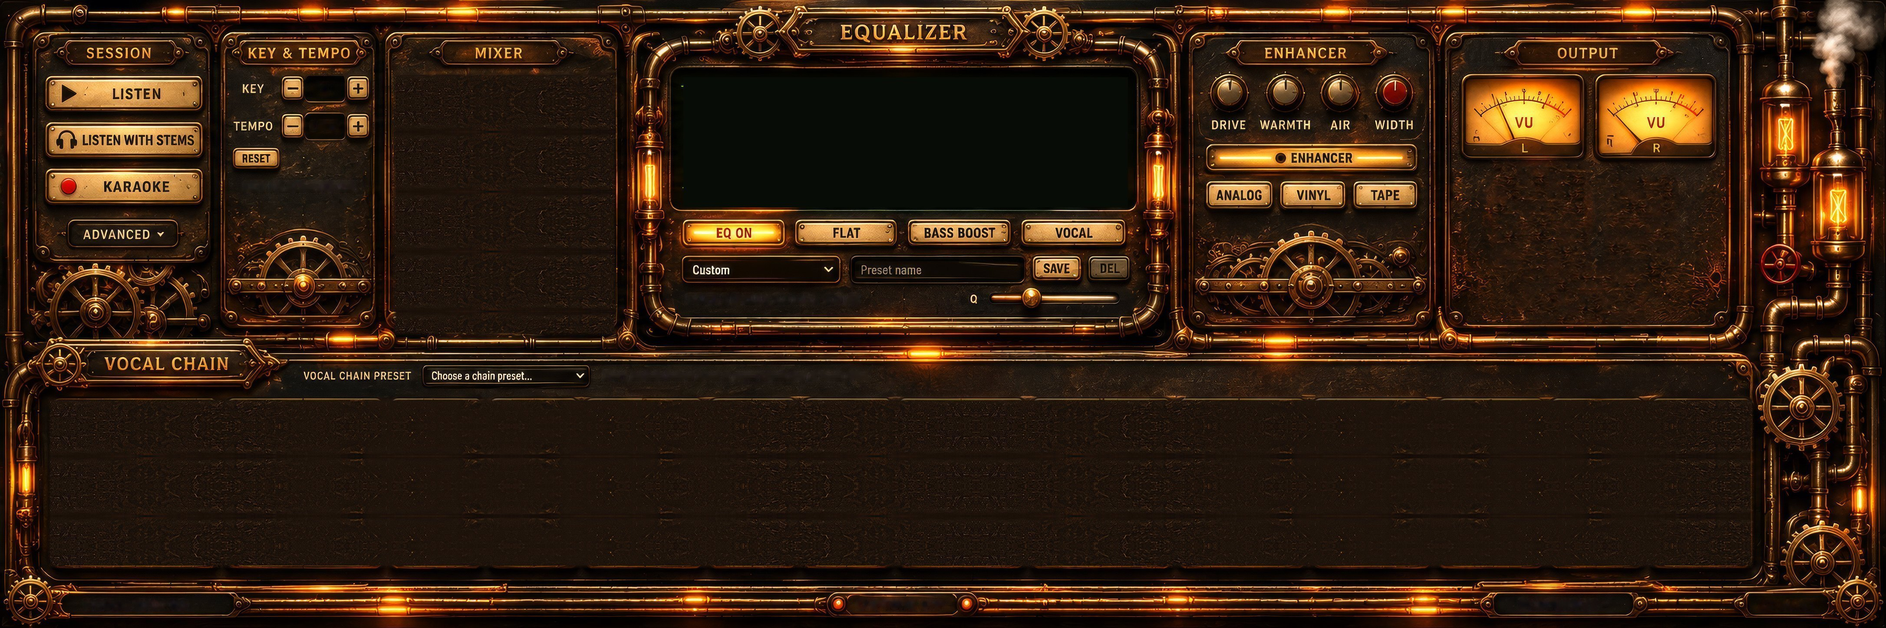
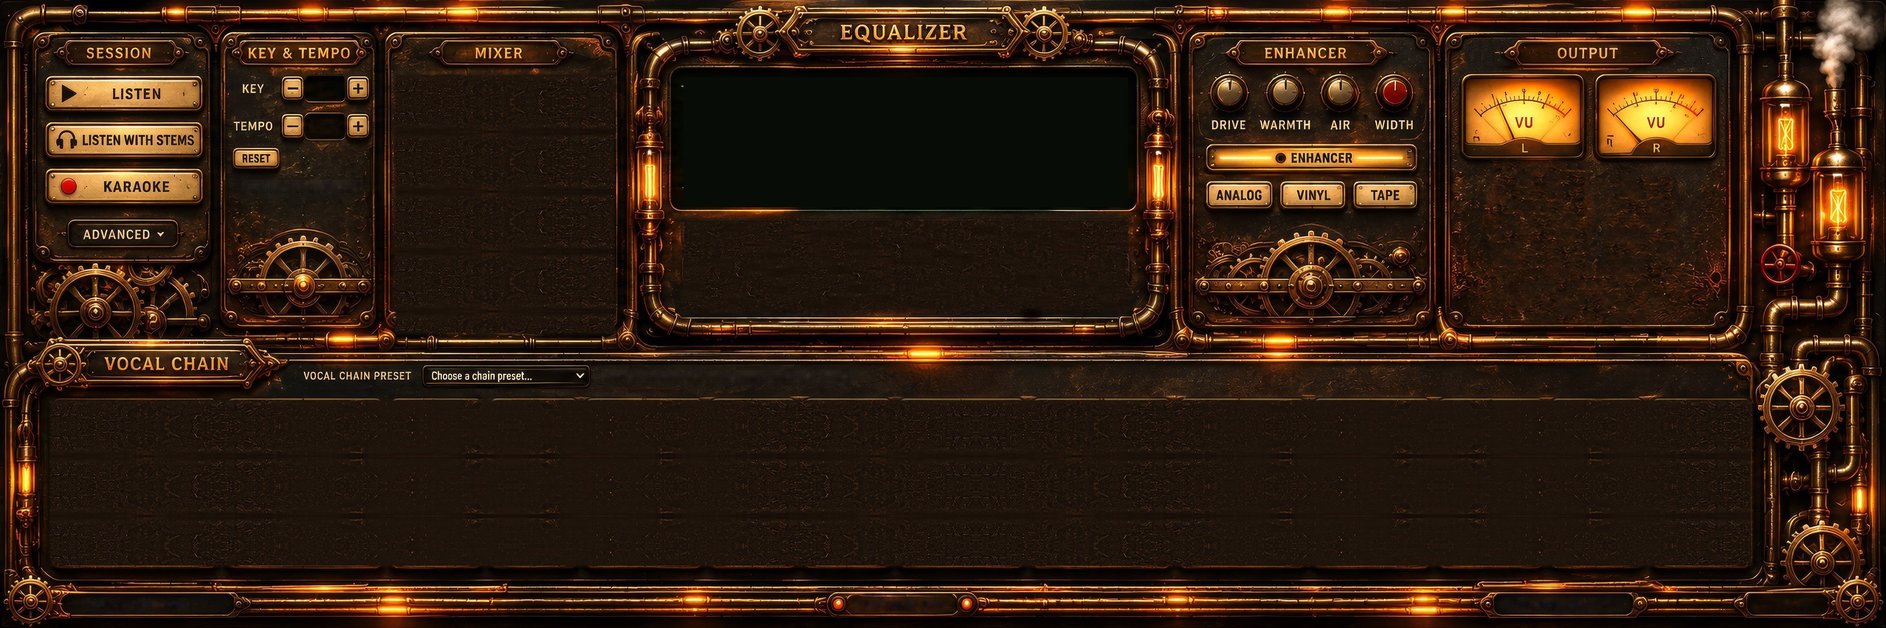
feat: Studio EQ parametrik/grafik modu, THRESH limiter'a bagli, Enhancer carklari donuyor
- EQ: FLAT/BASS/VOCAL yerine PARAMETRIC / GRAPHIC EQ (ikisi ayni anda secilemez); grafik mod cekmecede 10 fader, ustteki grafik EQ ile ayni durumu paylasir; EQ off iken dugme, faderlar ve yan tupler sonuk
- EQ preset secici ve isim kutusu duz alan; zemindeki eski EQ plakalari silindi (studio_eqplate.py)
- Output: THRESH yeni konumda, LIMITER pasifken soluk
- Enhancer: 3 cark (buyuk halka zeminden kesildi, 2 yan cark sk-gear.png'den) Enhancer acikken doner (studio_gears.py)

Changed region(s): [[0.3419, 0.3419, 0.6215, 0.4972]]

diff --git a/src/preload.js b/src/preload.js
@@ -537,9 +537,9 @@ if (isAutotunePage()) {
     const fmtFreq = (f) => (f >= 1000 ? (f / 1000).toFixed(f >= 10000 ? 0 : 1) + ' kHz' : Math.round(f) + ' Hz');
 
     const eqOn = h('button', 'btn solo', 'EQ ON', { type: 'button', 'aria-label': 'Equalizer enabled' });
-    const quick = [['FLAT', 'Flat'], ['BASS BOOST', 'Bass boost'], ['VOCAL', 'Vocal boost']].map(([text, preset]) => h('button', 'btn', text, { type: 'button', 'data-preset': preset }));
+    const modeBtns = [['PARAMETRIC', 'param'], ['GRAPHIC EQ', 'graphic']].map(([text, mode]) => h('button', 'btn', text, { type: 'button', 'data-mode': mode }));
     const row1 = h('div', 'switches fill');
-    row1.append(eqOn, ...quick);
+    row1.append(eqOn, ...modeBtns);
     const presetSelect = h('select', 'sel', null, { 'aria-label': 'Equalizer preset' });
     const nameInput = h('input', 'txt', null, { type: 'text', maxlength: '40', placeholder: 'Preset name', 'aria-label': 'Name for saving the current equalizer as a preset' });
     for (const type of ['keydown', 'keyup', 'keypress']) nameInput.addEventListener(type, (e) => e.stopPropagation()); // typing a name must not trigger YouTube Music hotkeys
@@ -551,12 +551,22 @@ if (isAutotunePage()) {
     const qSlider = h('input', 'qrange', null, { type: 'range', min: '0.1', max: '10', step: '0.05', 'aria-label': 'Selected band Q' });
     const info = h('div', 'eqinfo-row');
     info.append(infoText, h('span', null, 'Q'), qSlider);
-    sec.append(canvas, row1, row2, info);
+    const geqHost = h('div', 'eq-geq'), geqPreHost = h('div', 'eq-geqpre');
+    studio.eqGeqHost = geqHost; studio.eqGeqPreHost = geqPreHost;
+    studio.geqMount?.();
+    sec.append(canvas, geqHost, row1, row2, geqPreHost, info, h('i', 'eq-tube l'), h('i', 'eq-tube r'));
     ctrlReset(qSlider, () => EQ_DEFAULT_BANDS[selected].q);
 
     let selected = 2, dragging = -1, spectrum = null;
     const userPresets = loadUserPresets();
-    const syncOn = () => { eqOn.classList.toggle('on', eqState.enabled); eqOn.setAttribute('aria-pressed', String(eqState.enabled)); };
+    const isGeq = () => eqState.mode === 'graphic';
+    const syncOn = () => {
+      const on = isGeq() ? geqState.on : eqState.enabled;
+      eqOn.classList.toggle('on', on); eqOn.setAttribute('aria-pressed', String(on));
+      sec.classList.toggle('mode-graphic', isGeq()); sec.classList.toggle('eq-off', !on);
+      for (const b of modeBtns) { const a = on && b.getAttribute('data-mode') === eqState.mode; b.classList.toggle('on', a); b.setAttribute('aria-pressed', String(a)); }
+    };
+    studio.eqModeSync = syncOn;
     const updateInfo = () => {
       const b = eqState.bands[selected];
       infoText.textContent = `BAND ${selected + 1} (${b.type === 'peaking' ? 'BELL' : b.type === 'lowshelf' ? 'LOW SHELF' : 'HIGH SHELF'}): ${fmtFreq(b.freq)}, ${b.gain > 0 ? '+' : ''}${b.gain.toFixed(1)} dB`;
@@ -584,9 +594,13 @@ if (isAutotunePage()) {
       commit(); refreshPresetList(v);
     };
     refreshPresetList(''); syncOn(); updateInfo();
-    for (const b of quick) b.addEventListener('click', () => applyPreset('b:' + b.getAttribute('data-preset')));
+    for (const b of modeBtns) b.addEventListener('click', () => {
+      eqState.mode = b.getAttribute('data-mode');
+      if (isGeq()) geqState.on = true; else eqState.enabled = true; // choosing a mode switches it on
+      syncOn(); applyEq(); applyGeq(); saveEqState(); saveGeq(); ensurePassiveGraph(); studio.geqSync?.();
+    });
     presetSelect.addEventListener('change', () => applyPreset(presetSelect.value));
-    eqOn.addEventListener('click', () => { eqState.enabled = !eqState.enabled; syncOn(); applyEq(); saveEqState(); });
+    eqOn.addEventListener('click', () => { if (isGeq()) { geqState.on = !geqState.on; saveGeq(); } else { eqState.enabled = !eqState.enabled; saveEqState(); } syncOn(); applyEq(); applyGeq(); studio.geqSync?.(); ensurePassiveGraph(); });
     saveBtn.addEventListener('click', () => {
       const name = nameInput.value.trim().slice(0, 40);
       if (!name || name in EQ_BUILTIN_PRESETS) { nameInput.focus(); return; } // built-in names are reserved
@@ -700,7 +714,7 @@ if (isAutotunePage()) {
     const led = h('span', 'led');
     lim.append(led, document.createTextNode('LIMITER'));
     lim.title = 'Peak limiter after the EQ and master gain. Off = no processing.';
-    const syncLim = () => { lim.classList.toggle('on', eqState.limiter); led.classList.toggle('on', eqState.limiter); lim.setAttribute('aria-pressed', String(eqState.limiter)); };
+    const syncLim = () => { lim.classList.toggle('on', eqState.limiter); led.classList.toggle('on', eqState.limiter); lim.setAttribute('aria-pressed', String(eqState.limiter)); knobs.classList.toggle('lim-off', !eqState.limiter); };
     lim.addEventListener('click', () => { eqState.limiter = !eqState.limiter; routeLimiter(); saveEqState(); syncLim(); });
     syncLim();
     const sw = h('div', 'switches'); sw.appendChild(lim);
@@ -962,6 +976,9 @@ if (isAutotunePage()) {
     }
     syncPresets();
     sec.append(row, sw);
+    const gearSync = () => sec.classList.toggle('enh-on', onBtn.classList.contains('on'));
+    new MutationObserver(gearSync).observe(onBtn, { attributes: true, attributeFilter: ['class'] }); gearSync();
+    for (const n of ['big', 'r', 'l']) sec.appendChild(h('div', 'enh-gear ' + n, null)).appendChild(h('i'));
   }
 
   // ---- Recorder (master output -> MP3 in the recordings library) and the library player ----
@@ -1821,11 +1838,12 @@ if (isAutotunePage()) {
     const set = (i, v) => { geqState.gains[i] = Math.max(-12, Math.min(12, Math.round(v))); geqState.preset = ''; changed(); };
     const buildBands = (parent, capH, cls) => {
       const v = { caps: [], fills: [], trks: [], capH };
+      if (capH) parent.style.setProperty('--caph', capH + 'px');
       GEQ_FREQS.forEach((fq, i) => {
         const col = h('div', 'geqcol ' + cls), tr = h('div', 'geqtrk'), fl = h('i', 'geqfill'), cp = h('i', 'geqcap');
         tr.append(fl, cp); col.append(h('span', 'geqlbl', LBL[i]), tr); parent.appendChild(col);
         v.caps.push(cp); v.fills.push(fl); v.trks.push(tr);
-        const fromY = (y) => { const r = tr.getBoundingClientRect(); set(i, (1 - (y - r.top - capH / 2) / Math.max(1, r.height - capH)) * 24 - 12); };
+        const fromY = (y) => { const r = tr.getBoundingClientRect(), ch = cp.getBoundingClientRect().height || capH; set(i, (1 - (y - r.top - ch / 2) / Math.max(1, r.height - ch)) * 24 - 12); };
         tr.addEventListener('pointerdown', (e) => {
           e.preventDefault(); try { tr.setPointerCapture(e.pointerId); } catch {}
           fromY(e.clientY);
@@ -1868,23 +1886,29 @@ if (isAutotunePage()) {
     reset.addEventListener('click', () => { geqState.gains = GEQ_PRESETS.Flat.slice(); geqState.preset = 'Flat'; changed(); });
     const foot = h('div', 'geqfoot'); foot.append(buildPower('big'), buildPreset(), reset);
     pan.append(h('i', 'geqtitle'), h('i', 'geqlamp l'), h('i', 'geqlamp r'), scr, foot, h('div', 'geqlock', 'STUDIO EQ ACTIVE'));
+    let mounted = false;
+    studio.geqMount = () => { if (mounted || !studio.eqGeqHost) return; mounted = true; const H = studio.eqGeqHost; for (const side of ['l', 'r']) { const sc = h('div', 'geqscale ' + side); for (const t of ['+12', '+6', '0', '−6', '−12']) sc.appendChild(h('span', null, t)); H.appendChild(sc); }
+      const bb = h('div', 'geqbands big'); H.append(h('div', 'geqgrid'), bb, h('span', 'geqhz', 'Hz')); buildBands(bb, 0, 'md'); studio.eqGeqPreHost.append(buildPreset()); draw(); };
     ui.append(box, pan);
     const setOpen = (o) => { pan.classList.toggle('open', o); tab.textContent = o ? 'EQ \u25B2' : 'EQ \u25BC'; tab.setAttribute('aria-label', o ? 'Close the graphic equalizer panel' : 'Open the graphic equalizer panel'); };
     tab.addEventListener('click', () => setOpen(!pan.classList.contains('open')));
+    studio.geqOpen = setOpen;
     // the panel stays open until the EQ button is pressed again (no outside-click / Esc close)
     const draw = () => {
-      for (const el of [box, pan]) { el.classList.toggle('off', !geqState.on); el.classList.toggle('locked', studioActive()); }
+      for (const el of [box, pan]) { el.classList.toggle('off', !geqState.on); el.classList.toggle('locked', paramLive()); }
+      studio.eqModeSync?.();
       for (const pw of pwEls) pw.setAttribute('aria-pressed', String(geqState.on));
       for (const pn of nameEls) pn.textContent = geqState.preset || 'Custom';
       for (const v of views) geqState.gains.forEach((g, i) => {
         const p = (g + 12) / 24;
-        v.caps[i].style.bottom = 'calc(' + p + ' * (100% - ' + v.capH + 'px))';
-        v.fills[i].style.height = 'calc(' + p + ' * (100% - ' + v.capH + 'px) + ' + v.capH / 2 + 'px)';
+        v.caps[i].style.bottom = 'calc(' + p + ' * (100% - var(--caph)))';
+        v.fills[i].style.height = 'calc(' + p + ' * (100% - var(--caph)) + var(--caph) / 2)';
         v.trks[i].title = LBL[i] + ' Hz: ' + (g > 0 ? '+' : '') + g + ' dB';
       });
     };
     changed = () => { applyGeq(); saveGeq(); draw(); ensurePassiveGraph(); };
     studio.geqSync = draw;
+    studio.geqMount();
     const place = () => {
       const sb = document.querySelector('ytmusic-search-box');
       const vu = box.parentNode && box.parentNode.querySelector('.topvu');
@@ -2639,9 +2663,9 @@ if (isAutotunePage()) {
     .skin .section.eq .switches { position:absolute; inset:0; margin:0; display:block; }
     .skin .section.eq .btn { display:flex; align-items:center; justify-content:center; border:calc(30 / 4344 * 100cqw) solid transparent; border-image:${T('sk-st-cream.png')} 30 fill / calc(30 / 4344 * 100cqw) stretch; background:none; color:#422c16; font:600 .9cqw 'Barlow Condensed',sans-serif; }
     .skin .section.eq .btn.on { border-image:${T('sk-st-amber.png')} 28 fill / calc(28 / 4344 * 100cqw) stretch; }
-    .skin .eqrow .sel, .skin .eqrow .txt { border:calc(20 / 4344 * 100cqw) solid transparent; border-image:${T('sk-st-select.png')} 20 62 fill / calc(20 / 4344 * 100cqw) calc(38 / 4344 * 100cqw) stretch; border-radius:0; background:none; color:#ead9b2; font:600 .7cqw 'Barlow Condensed',sans-serif; padding:0 1.2cqw; }
+    .skin .eqrow .sel, .skin .eqrow .txt { border:calc(20 / 4344 * 100cqw) solid transparent; border-image:${T('sk-st-select.png')} 20 62 fill / calc(20 / 4344 * 100cqw) calc(62 / 4344 * 100cqw) stretch; border-radius:0; background:none; color:#ead9b2; font:600 .7cqw 'Barlow Condensed',sans-serif; padding:0 .5cqw; }
     .skin .eqrow .txt { border-image:${T('sk-st-input.png')} 18 fill / calc(18 / 4344 * 100cqw) stretch; }
-    .skin .sel { border:calc(20 / 4344 * 100cqw) solid transparent; border-image:${T('sk-st-select.png')} 20 62 fill / calc(20 / 4344 * 100cqw) calc(38 / 4344 * 100cqw) stretch; border-radius:0; background:none; color:#ead9b2; font:600 .7cqw 'Barlow Condensed',sans-serif; }
+    .skin .sel { border:calc(20 / 4344 * 100cqw) solid transparent; border-image:${T('sk-st-select.png')} 20 62 fill / calc(20 / 4344 * 100cqw) calc(62 / 4344 * 100cqw) stretch; border-radius:0; background:none; color:#ead9b2; font:600 .7cqw 'Barlow Condensed',sans-serif; }
     .skin .sel.st-select-wrap { position:relative; display:flex; align-items:center; overflow:hidden; padding:0 calc(62 / 4344 * 100cqw) 0 calc(20 / 4344 * 100cqw); appearance:none; -webkit-appearance:none; white-space:nowrap; line-height:1; border:0 !important; border-image:none !important; background:none; }
     .skin .st-select-wrap::before { content:''; position:absolute; inset:0; z-index:0; pointer-events:none; border:calc(20 / 4344 * 100cqw) solid transparent; border-image:${T('sk-st-select.png')} 20 62 fill / calc(20 / 4344 * 100cqw) calc(62 / 4344 * 100cqw) stretch; }
     .skin .st-select-label { position:absolute; z-index:3; left:calc(20 / 4344 * 100cqw); right:calc(62 / 4344 * 100cqw); top:0; height:100%; display:flex; align-items:center; overflow:hidden; white-space:nowrap; text-overflow:clip; color:#ead9b2; font:inherit; line-height:1; background:#15100b; pointer-events:none; }
@@ -2690,7 +2714,36 @@ if (isAutotunePage()) {
     .skin .section.output .knob.big::after { background-image:${T('sk-st-kout-master-cap.png')} !important; }
     .skin .section.output .knob.dark::before { background-image:${T('sk-st-kout-thresh-base.png')} !important; }
     .skin .section.output .knob.dark::after { background-image:${T('sk-st-kout-thresh-cap.png')} !important; }
+    .eq-geq, .eq-geqpre { display:none; }
+    .skin .section.eq.mode-graphic .eq-screen, .skin .section.eq.mode-graphic .eqrow, .skin .section.eq.mode-graphic .eqinfo-row { display:none !important; }
+    .skin .section.eq.mode-graphic .eq-geq { display:block; position:absolute; box-sizing:border-box; --u:calc(100cqw / 4344); --caph:calc(52 * var(--u)); border-radius:calc(14 * var(--u)); background:linear-gradient(#ffffff06,#00000040), #0c0805; box-shadow:inset 0 0 14px #000, 0 0 0 1px #6a4a26; }
+    .skin .section.eq.mode-graphic .eq-geqpre { display:flex; position:absolute; align-items:center; justify-content:center; }
+    /* Enhancer wheels: rotating sprites cut from the backdrop (design/tools/studio_gears.py); spin only while the Enhancer is on */
+    .enh-gear { position:absolute; pointer-events:none; -webkit-mask:center / 100% 100% no-repeat; }
+    .enh-gear i { position:absolute; inset:0; background:center / 100% 100% no-repeat; animation:enh-spin 16s linear infinite; animation-play-state:paused; }
+    .section.enh.enh-on .enh-gear i { animation-play-state:running; }
+    .enh-gear.big { -webkit-mask-image:${T('sk-st-gear-big-mask.png')}; } .enh-gear.big i { background-image:${T('sk-st-gear-big.png')}; }
+    .enh-gear.r { -webkit-mask-image:${T('sk-st-gear-r-mask.png')}; } .enh-gear.r i { background-image:${T('sk-st-gear-r.png')}; animation-duration:9s; animation-direction:reverse; }
+    .enh-gear.l { -webkit-mask-image:${T('sk-st-gear-l-mask.png')}; } .enh-gear.l i { background-image:${T('sk-st-gear-l.png')}; animation-duration:11s; animation-direction:reverse; }
+    @keyframes enh-spin { to { transform:rotate(360deg); } }
+    .eq-tube { position:absolute; pointer-events:none; border-radius:30%; z-index:3; transition:backdrop-filter .3s, background .3s; }
+    .section.eq.eq-off .eq-tube { backdrop-filter:brightness(.28) saturate(.25); -webkit-backdrop-filter:brightness(.28) saturate(.25); background:#0a060255; }
+    .skin .section.eq.eq-off .eq-geq .geqfill { opacity:.25; box-shadow:none; }
+    .skin .section.eq.eq-off .eq-geq .geqcap { filter:brightness(.6) saturate(.5); }
+    .eq-geq .geqgrid { left:calc(110 * var(--u)); right:calc(110 * var(--u)); top:calc(60 * var(--u)); bottom:calc(14 * var(--u)); }
+    .eq-geq .geqscale { top:calc(60 * var(--u)); bottom:calc(14 * var(--u)); width:calc(100 * var(--u)); font-size:calc(30 * var(--u)); }
+    .eq-geq .geqscale.l { left:calc(6 * var(--u)); } .eq-geq .geqscale.r { right:calc(6 * var(--u)); width:calc(78 * var(--u)); padding-left:calc(14 * var(--u)); box-sizing:content-box; text-align:left; }
+    .eq-geq .geqhz { font-size:calc(30 * var(--u)); right:calc(6 * var(--u)); width:calc(78 * var(--u)); padding-left:calc(14 * var(--u)); box-sizing:content-box; text-align:left; top:calc(8 * var(--u)); }
+    .eq-geq .geqbands.big { left:calc(110 * var(--u)); right:calc(110 * var(--u)); top:calc(6 * var(--u)); bottom:calc(8 * var(--u)); }
+    .geqcol.md { width:calc(84 * var(--u)); } .geqcol.md .geqlbl { font-size:calc(34 * var(--u)); line-height:calc(44 * var(--u)); }
+    .geqcol.md .geqtrk { width:calc(84 * var(--u)); margin-top:calc(8 * var(--u)); }
+    .geqcol.md .geqtrk::before { width:calc(24 * var(--u)); margin-left:calc(-12 * var(--u)); border-radius:calc(12 * var(--u)); box-shadow:inset 0 2px 4px #000, 0 0 0 1px #8a6030, 0 0 0 3px #140c06; }
+    .geqcol.md .geqfill { width:calc(10 * var(--u)); margin-left:calc(-5 * var(--u)); box-shadow:0 0 8px #ff8a1f; }
+    .geqcol.md .geqcap { width:calc(80 * var(--u)); height:var(--caph); margin-left:calc(-40 * var(--u)); border-radius:calc(8 * var(--u)); box-shadow:0 3px 5px #000d; }
     .skin .section.output .knob::after { filter:drop-shadow(0 2px 2px #000a) !important; }
+    /* THRESH follows the LIMITER: limiter off = dimmed, unlit knob */
+    .skin .section.output .knob-box:has(.knob.dark) { transition:filter .25s; }
+    .skin .section.output .row.lim-off .knob-box:has(.knob.dark) { filter:brightness(.55) saturate(.8); }
     .skin .section.output .knob-box::after { position:absolute; left:-60%; right:-60%; top:104%; text-align:center; color:#e9d6a8; text-shadow:0 1px 2px #000, 0 0 4px #0008;
       font:600 calc(34 / 4344 * 100cqw)/1 'Barlow Condensed','Oswald',sans-serif; letter-spacing:.06em; pointer-events:none; }
     .skin .section.output .knob-box:has(.knob.big)::after { content:'MASTER'; }
@@ -2838,6 +2891,15 @@ if (isAutotunePage()) {
       line-height:1; font-size:.52cqw;
     }
     .skin .eqrow .txt, .skin .txt { box-sizing:border-box; min-width:0; padding:0 calc(20 / 4344 * 100cqw); line-height:1; font-size:.43cqw; }
+    .skin .eqrow .sel { padding:0 calc(8 / 4344 * 100cqw) 0 calc(12 / 4344 * 100cqw); }
+    .skin .eqrow .st-select-label { background:transparent; }
+    /* EQ preset picker: a flat dropdown field (no 3D plate, no separate text layer) */
+    .skin .eqrow .st-select-wrap { background:#120d08; border-radius:calc(14 / 4344 * 100cqw); box-shadow:inset 0 0 0 1px #6a4a26, inset 0 2px 6px #000; padding:0 calc(60 / 4344 * 100cqw) 0 calc(24 / 4344 * 100cqw); }
+    .skin .eqrow .st-select-wrap::before { display:none; }
+    .skin .eqrow .st-select-wrap::after { content:''; position:absolute; right:calc(26 / 4344 * 100cqw); top:50%; width:calc(14 / 4344 * 100cqw); height:calc(14 / 4344 * 100cqw); margin-top:calc(-11 / 4344 * 100cqw); border:solid #e9d6a8; border-width:0 calc(4 / 4344 * 100cqw) calc(4 / 4344 * 100cqw) 0; transform:rotate(45deg); z-index:1; pointer-events:none; }
+    .skin .eqrow .txt { border:0 !important; border-image:none !important; background:#120d08 !important; border-radius:calc(14 / 4344 * 100cqw); box-shadow:inset 0 0 0 1px #6a4a26, inset 0 2px 6px #000; padding:0 calc(24 / 4344 * 100cqw); outline:none; }
+    .skin .eqrow .txt:focus { box-shadow:inset 0 0 0 1px #c8954a, inset 0 2px 6px #000; }
+    .skin .eqrow .st-select-label { left:calc(24 / 4344 * 100cqw); right:calc(60 / 4344 * 100cqw); }
     .skin .section.enh .knob-box { font-size:0; }
     /* preset buttons rebuild the Enhancer knobs: place them by position, not once by script */
     .skin .section.enh .fxknobs > .knob-box:nth-child(1) { position:absolute; left:64.1344%; top:11.3260%; width:2.1179%; height:6.3536%; }
@@ -3224,18 +3286,19 @@ if (isAutotunePage()) {
       q(mixer,'.micfx')?.classList.add('st-micfx');
       // Mix export and mic shift remain inside the mixer bay in mixview.
       stPlace(exp,1080,718,1235,765); stPlace(off,905,710,1068,765);
-      const eq=q(eqSection,'.eq-screen'); stPlace(eq,1574,178,2598,478);
+      const eq=q(eqSection,'.eq-screen'); stPlace(eq,1574,178,2598,478); stPlace(q(eqSection,'.eq-geq'),1574,178,2598,478); stPlace(q(eqSection,'.eq-geqpre'),1572,592,2598,650); stPlace(q(eqSection,'.eq-tube.l'),1462,332,1526,490); stPlace(q(eqSection,'.eq-tube.r'),2638,332,2700,490);
       const eqRow=qa(eqSection,'.switches');
-      const eqBtns=qa(eqRow[0],'.btn'); [[1572,1806],[1833,2063],[2092,2325],[2355,2590]].forEach(([x0,x1],i)=>stPlace(eqBtns[i],x0,506,x1,566));
+      const eqBtns=qa(eqRow[0],'.btn'); [[1572,1900],[1935,2255],[2290,2598]].forEach(([x0,x1],i)=>stPlace(eqBtns[i],x0,506,x1,566));
       const er=qa(eqSection,'.eqrow > *'); [[1572,1935],[1962,2355],[2380,2490],[2510,2598]].forEach(([x0,x1],i)=>stPlace(er[i],x0,592,x1,650));
       const info=q(eqSection,'.eqinfo-row'); stPlace(info,1580,668,2005,708); const qlabel=info.children[1], qr=q(info,'.qrange'); if(qlabel){qlabel.classList.add('st-placed'); qlabel.style.left=((2232-1580)/(2005-1580)*100)+'%'; qlabel.style.top='0'; qlabel.style.width='11%'; qlabel.style.height='100%';} if(qr){qr.classList.add('st-placed'); qr.style.left=((2280-1580)/(2005-1580)*100)+'%'; qr.style.top='0'; qr.style.width=((2580-2280)/(2005-1580)*100)+'%'; qr.style.height='100%';}
       const enhRow=q(enhSection,'.fxknobs'); const enhKnobs=qa(enhRow,'.knob-box');
       [[2786,164,2878,256],[2915,164,3007,256],[3042,164,3134,256],[3167,164,3259,256]].forEach(([x0,y0,x1,y1],i)=>stPlace(enhKnobs[i],x0,y0,x1,y1));
       q(enhSection,'.switches')?.classList.add('st-enh-switches');
+      stPlace(q(enhSection,'.enh-gear.big'),2889,527,3149,787); stPlace(q(enhSection,'.enh-gear.r'),3080,578,3218,716); stPlace(q(enhSection,'.enh-gear.l'),2816,579,2966,729);
       const enhBtns=qa(enhSection,'.switches > .btn'); stPlace(enhBtns[0],2778,333,3262,393);
       enhBtns.slice(1).forEach((el,i)=>stPlace(el,[[2780,420,2930,480],[2950,420,3097,480],[3117,420,3262,480]][i][0],420,[[2780,420,2930,480],[2950,420,3097,480],[3117,420,3262,480]][i][2],480));
       const vus=q(outSection,'.vus'); qa(vus,'.vu').forEach((el,i)=>stPlace(el,...(i===0?[3368,172,3648,365]:[3675,172,3952,365])));
-      const outKnobs=qa(outSection,'.knob-box'); outKnobs.forEach((el,i)=>stPlace(el,...(i===0?[3556,404,3764,612]:[3842,566,3934,658])));
+      const outKnobs=qa(outSection,'.knob-box'); outKnobs.forEach((el,i)=>stPlace(el,...(i===0?[3556,404,3764,612]:[3803,471,3895,563])));
       stPlace(q(outSection,'.limiter'),3580,688,3740,738); // centred in the module (x 3660), lower, smaller
       const chainRow=q(chainSection,'.st-chainrow'); qa(chainRow,'.st-mod').forEach((el,i)=>{el.style.flex='0 1 calc('+[450,450,175,175,270,175,175,175,270,270,260,270,270,260][i]+' / 4344 * 100cqw)';});
       const chainbar=q(chainSection,'.st-chainbar'); stPlace(chainbar,973,845,2320,902); chainbar.classList.add('st-placed');
@@ -3392,11 +3455,11 @@ if (isAutotunePage()) {
     { type: 'highshelf', freq: 12000, gain: 0, q: 0.707 },
   ];
   const eqState = (() => {
-    const fresh = { enabled: true, limiter: false, master: 0.8, thresh: 5 / 6, bands: EQ_DEFAULT_BANDS.map((b) => ({ ...b })) };
+    const fresh = { enabled: true, mode: 'param', limiter: false, master: 0.8, thresh: 5 / 6, bands: EQ_DEFAULT_BANDS.map((b) => ({ ...b })) };
     try {
       const saved = JSON.parse(localStorage.getItem(EQ_STORE_KEY) || 'null');
       if (saved && Array.isArray(saved.bands) && saved.bands.length === fresh.bands.length) {
-        fresh.enabled = saved.enabled !== false;
+        fresh.enabled = saved.enabled !== false; fresh.mode = saved.mode === 'graphic' ? 'graphic' : 'param';
         fresh.limiter = saved.limiter === true; // opt-in only, never automatic
         if (Number.isFinite(saved.master)) fresh.master = Math.min(1, Math.max(0, saved.master));
         if (Number.isFinite(saved.thresh)) fresh.thresh = Math.min(1, Math.max(0, saved.thresh));
@@ -3458,7 +3521,8 @@ if (isAutotunePage()) {
     return fresh;
   })();
   function saveGeq() { try { localStorage.setItem(GEQ_KEY, JSON.stringify(geqState)); } catch {} }
-  function geqLive() { return geqState.on && !studioActive(); }
+  const paramLive = () => studioActive() && eqState.mode === 'param';
+  function geqLive() { return geqState.on && !paramLive(); }
   function applyGeq() {
     if (!masterEq || !masterEq.geq) return;
     const t = masterEq.context.currentTime;
@@ -3495,7 +3559,7 @@ if (isAutotunePage()) {
       const f = masterEq.filters[i];
       f.frequency.setTargetAtTime(b.freq, t, 0.01);
       f.Q.setTargetAtTime(b.q, t, 0.01);
-      f.gain.setTargetAtTime(eqState.enabled && studioActive() ? b.gain : 0, t, 0.01); // disabled (or plain listening: graphic EQ's turn) = 0 dB on every band
+      f.gain.setTargetAtTime(eqState.enabled && paramLive() ? b.gain : 0, t, 0.01); // disabled (or plain listening: graphic EQ's turn) = 0 dB on every band
     });
   }
 
@@ -3598,7 +3662,7 @@ if (isAutotunePage()) {
     routeEnhancer(); applyEnhancer(); // Enhancer off = eqOut goes straight to master (clean bypass)
     routeLimiter();
     for (const [i, b] of eqState.bands.entries()) {
-      filters[i].frequency.value = b.freq; filters[i].Q.value = b.q; filters[i].gain.value = eqState.enabled && studioActive() ? b.gain : 0;
+      filters[i].frequency.value = b.freq; filters[i].Q.value = b.q; filters[i].gain.value = eqState.enabled && paramLive() ? b.gain : 0;
     }
     return input;
   }

diff --git a/design/tools/studio_gears.py b/design/tools/studio_gears.py
@@ -1,0 +1,73 @@
+# Enhancer wheel rings for animation. Only the toothed rim of each wheel is cut (no spokes, hub, cross bar or straps): a clean
+# wedge of the rim (a part with nothing in front of it) is tiled N times around the centre, so the ring has no bar/frame fragments
+# and can spin freely. The sprite is colour-matched to the baked ring it replaces (the clean wedge is brighter than the average).
+#   sk-st-gear-<n>.png        ring sprite (rotates)
+#   sk-st-gear-<n>-mask.png   static alpha: ring minus the cross bar, the plate frame and (small wheels) the big wheel
+# usage: python -I design/tools/studio_gears.py [name test_angle test_out.png]   (run on the live backdrop design/tex/sk-studio.jpg)
+import sys
+import numpy as np
+from PIL import Image, ImageFilter
+from scipy.ndimage import map_coordinates
+src = Image.open('design/tex/sk-studio.jpg').convert('RGB'); A = np.asarray(src).astype(np.float32)
+L = A.mean(axis=2)
+# name: (cx, cy, inner r, outer r, wedge start deg (ccw from 3 o'clock), wedge width deg, spin speed hint)
+GEARS = {'big': (3019.5, 657.5, 97, 127, 66.0, 360.0 / 7), 'r': (3149.0, 647.0, 40, 66, 22.0, 72.0), 'l': (2891.0, 654.0, 46, 72, 86.0, 72.0)}
+BIG = (3019.5, 657.5, 131); BAR = (641, 677); FRAME_Y = 728
+ASSET = {'l': 'design/tex/sk-gear.png', 'r': 'design/tex/sk-gear.png'}   # wheels replaced by a whole clean gear from the asset set (colour-matched), instead of a cut ring
+def build_asset(n):
+    CX, CY, RI, RO, W0, W = GEARS[n]
+    R = int(RO + 3); S = 2 * R; x0, y0 = int(CX - R), int(CY - R)
+    yy, xx = np.mgrid[0:S, 0:S].astype(np.float32); px, py = xx + x0, yy + y0
+    d = np.hypot(px - CX, py - CY)
+    g = Image.open(ASSET[n]).convert('RGBA'); D = int(round(2 * (RO + 1)))
+    g = g.resize((D, D), Image.LANCZOS)
+    base = Image.new('RGBA', (S, S), (0, 0, 0, 0)); dark = Image.new('RGBA', (D, D), (13, 9, 6, 255))   # fill behind the spokes
+    dark.alpha_composite(g); base.paste(dark, ((S - D) // 2, (S - D) // 2))
+    arr = np.asarray(base).astype(np.float32); rgb = arr[..., :3]; ga = arr[..., 3] > 128
+    m = (d <= RO).astype(np.float32)
+    m[(py >= BAR[0]) & (py <= BAR[1])] = 0; m[py >= FRAME_Y] = 0; m[np.hypot(px - BIG[0], py - BIG[1]) <= BIG[2]] = 0
+    ring = (m > 0.5) & (d >= RI)
+    baked = L[y0:y0 + S, x0:x0 + S][ring].mean(); new = rgb.mean(axis=2)[ga & (d >= RI)].mean()
+    k = float(np.clip(baked / max(new, 1), 0.35, 1.0)); rgb = rgb * k * 0.92
+    # slight desaturation: the baked bronze is duller than the asset's orange copper
+    gray = rgb.mean(axis=2, keepdims=True); rgb = gray + (rgb - gray) * 1.0
+    alpha = np.where(ga, 255, 0).astype(np.uint8)
+    sprite = Image.fromarray(np.dstack([rgb.clip(0, 255).astype(np.uint8), alpha]))
+    mask = Image.fromarray((m * 255).astype(np.uint8)).filter(ImageFilter.GaussianBlur(0.7))
+    return (x0, y0, S), sprite, mask, k
+_build_ring = None
+def build(n):
+    if n in ASSET: return build_asset(n)
+    return build_ring(n)
+def build_ring(n):
+    CX, CY, RI, RO, W0, W = GEARS[n]
+    R = int(RO + 3); S = 2 * R; x0, y0 = int(CX - R), int(CY - R)
+    yy, xx = np.mgrid[0:S, 0:S].astype(np.float32); px, py = xx + x0, yy + y0
+    d = np.hypot(px - CX, py - CY); th = np.degrees(np.arctan2(CY - py, px - CX)) % 360
+    st = np.radians(W0 + ((th - W0) % W)); sx = CX + d * np.cos(st); sy = CY - d * np.sin(st)
+    rgb = np.dstack([map_coordinates(A[..., c], [sy, sx], order=1, mode='nearest') for c in range(3)])
+    m = ((d >= RI) & (d <= RO)).astype(np.float32)
+    m[(py >= BAR[0]) & (py <= BAR[1])] = 0; m[py >= FRAME_Y] = 0
+    if n != 'big': m[np.hypot(px - BIG[0], py - BIG[1]) <= BIG[2]] = 0
+    # colour match: mean luminance of the sprite ring vs the baked ring pixels that stay visible
+    ring = m > 0.5
+    base = L[y0:y0 + S, x0:x0 + S][ring].mean(); new = rgb.mean(axis=2)[ring].mean()
+    k = float(np.clip(base / max(new, 1), 0.45, 1.0)); rgb = rgb * k
+    alpha = np.where((d >= RI - 1) & (d <= RO + 1), 255, 0).astype(np.uint8)
+    sprite = Image.fromarray(np.dstack([rgb.clip(0, 255).astype(np.uint8), alpha]))
+    mask = Image.fromarray((m * 255).astype(np.uint8)).filter(ImageFilter.GaussianBlur(0.7))
+    return (x0, y0, S), sprite, mask, k
+if len(sys.argv) > 3:
+    comp = src.copy()
+    for n in GEARS:
+        (x0, y0, S), sprite, mask, k = build(n)
+        rot = sprite.rotate(float(sys.argv[2]) * (1 if n == 'big' else -1), resample=Image.BICUBIC)
+        la = np.asarray(rot.split()[3]).astype(np.float32) * np.asarray(mask).astype(np.float32) / 255.0
+        rot.putalpha(Image.fromarray(la.astype(np.uint8))); comp.paste(rot, (x0, y0), rot)
+    comp.crop((2760, 520, 3260, 760)).resize((1500, 720)).save(sys.argv[3])
+else:
+    for n in GEARS:
+        (x0, y0, S), sprite, mask, k = build(n)
+        sprite.save(f'design/tex/sk-st-gear-{n}.png')
+        out = Image.new('RGBA', (S, S), (0, 0, 0, 0)); out.putalpha(mask); out.save(f'design/tex/sk-st-gear-{n}-mask.png')
+        print(n, x0, y0, x0 + S, y0 + S, 'brightness x%.2f' % k)

diff --git a/design/tools/studio_eqplate.py b/design/tools/studio_eqplate.py
@@ -1,0 +1,24 @@
+# Paints the baked EQ button/preset plates (EQ ON, FLAT, BASS BOOST, VOCAL, preset select, name, SAVE, DEL, Q slider) out of
+# sk-studio.jpg with randomly quilted dark plate texture; the live controls draw their own plates (mode-dependent).
+# usage: python -I design/tools/studio_eqplate.py <in.jpg> <out.jpg>
+import sys, numpy as np
+from PIL import Image
+a = np.asarray(Image.open(sys.argv[1]).convert('RGB')).astype(np.float32)
+src = a[250:650, 960:1360]; rng = np.random.default_rng(11)
+def quilt(b, T=72, ov=24):
+    x0, y0, x1, y1 = b; w, h = x1 - x0, y1 - y0
+    acc = np.zeros((h + T, w + T, 3), np.float32); wt = np.zeros((h + T, w + T, 1), np.float32)
+    ramp = np.minimum(np.arange(T) + 1, T - np.arange(T)).astype(np.float32); ramp = np.minimum(ramp / ov, 1)
+    win = (ramp[:, None] * ramp[None, :])[..., None]
+    for y in range(0, h, T - ov):
+        for x in range(0, w, T - ov):
+            sy = rng.integers(0, src.shape[0] - T + 1); sx = rng.integers(0, src.shape[1] - T + 1)
+            t = src[sy:sy + T, sx:sx + T]
+            if rng.random() < .5: t = t[:, ::-1]
+            acc[y:y + T, x:x + T] += t * win; wt[y:y + T, x:x + T] += win
+    fill = acc[:h, :w] / np.maximum(wt[:h, :w], 1e-3)
+    yy, xx = np.mgrid[0:h, 0:w]; f = np.minimum.reduce([xx, yy, w - 1 - xx, h - 1 - yy]).astype(np.float32)
+    al = np.clip(f / 16, 0, 1)[..., None]
+    a[y0:y1, x0:x1] = a[y0:y1, x0:x1] * (1 - al) + fill * al
+quilt((1560, 492, 2610, 722))
+Image.fromarray(np.clip(a, 0, 255).astype(np.uint8)).save(sys.argv[2], quality=86)
